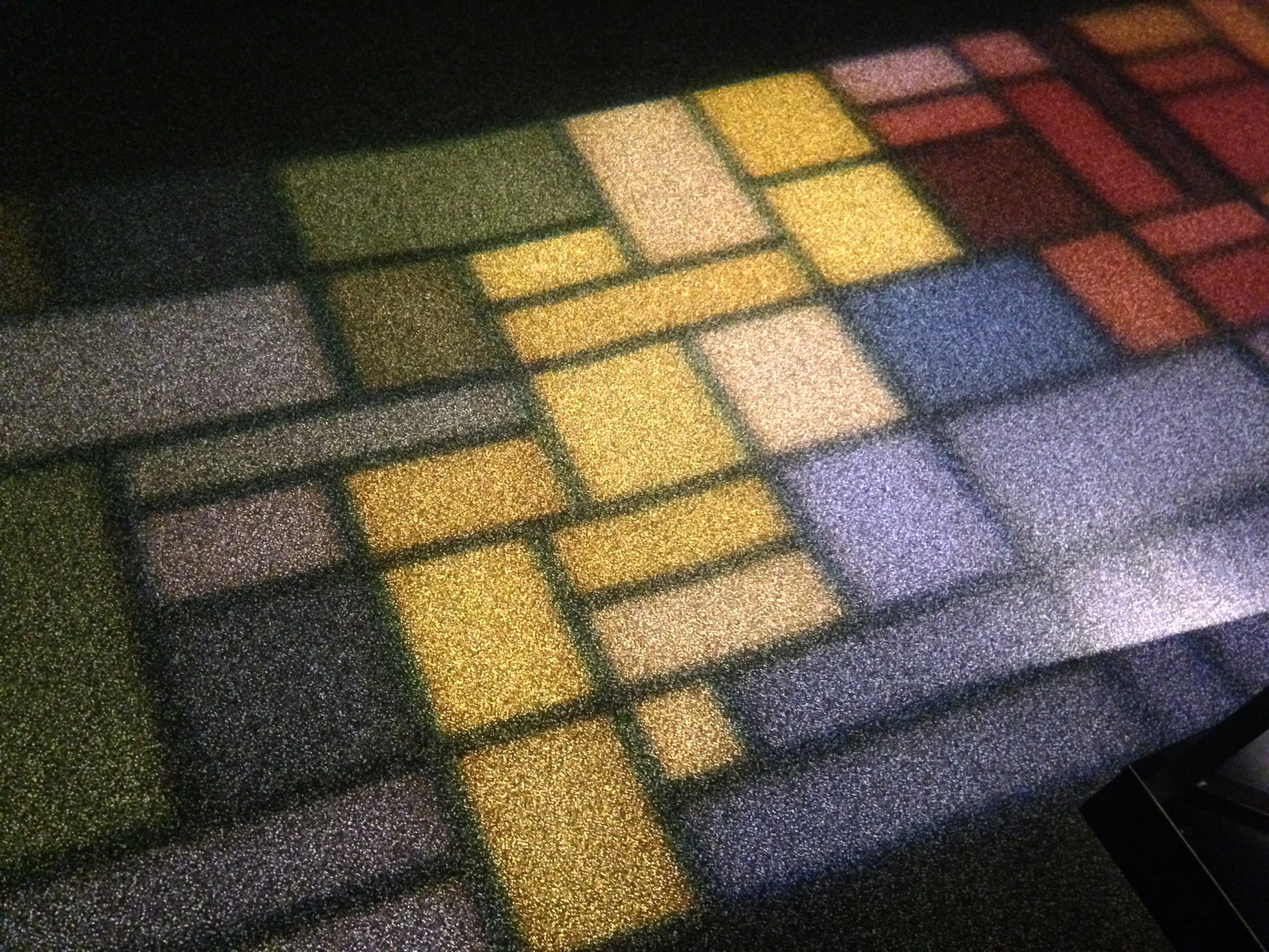
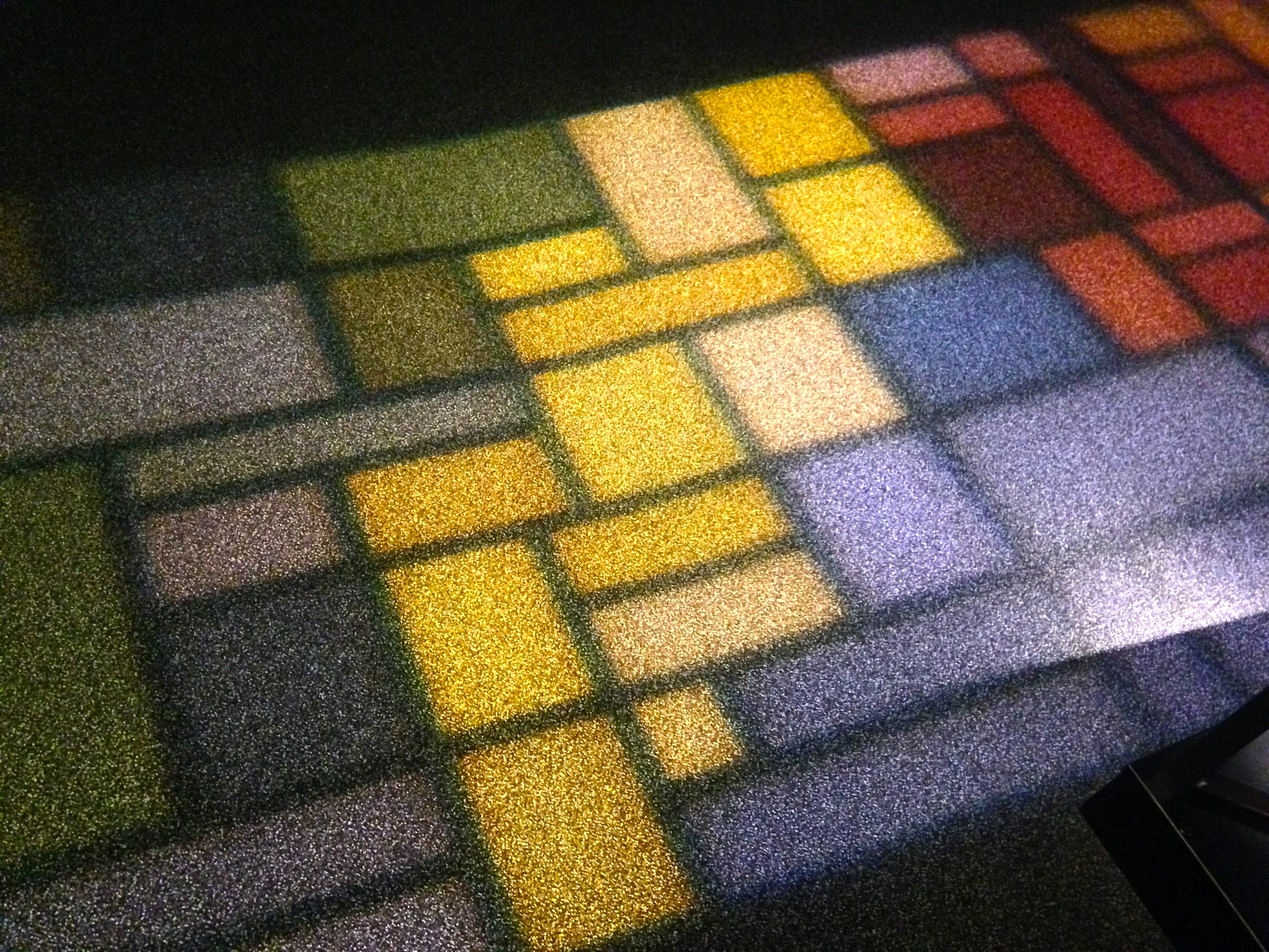
brighten web audio sync post

Changed region(s): [[0.2812, 0.0625, 0.75, 1.0], [0.9688, 0.0312, 1.0, 0.0625], [0.875, 0.0312, 0.9062, 0.0625]]

diff --git a/src/content/blog/2020/how-to-sync-web-audio-api-and-web-midi/index.md b/src/content/blog/2020/how-to-sync-web-audio-api-and-web-midi/index.md
@@ -53,24 +53,25 @@ This second item is the tricky one - the AudioContext doesn't necessarily start 
 
 We can measure this difference by using the [high resolution time API](https://developer.mozilla.org/en-US/docs/Web/API/Window/performance), and comparing that to the current AudioContext time.
 
-<!-- wp:code -->
-<pre class="wp-block-code"><code>const perfNow = window.performance.now()
+```js
+const perfNow = window.performance.now()
 const audioNow = audioContext.currentTime;
-const audioContextOffsetSec = ( perfNow / 1000.0 ) - audioNow;</code></pre>
-<!-- /wp:code -->
+const audioContextOffsetSec = ( perfNow / 1000.0 ) - audioNow;
+```
 
 This tells us how *late* audio events are relative to MIDI or real time. (MIDI events are sent in close to real time.)
 
 So to sync we need to offset (delay) MIDI events by this latency:
 
-<!-- wp:code -->
-<pre class="wp-block-code"><code>const timestamp = ( startSeconds * 1000 );
+```js
+const timestamp = ( startSeconds * 1000 );
 const offset = ( audioContextOffsetSec * 1000 );
 midiOutPorts[0].send(
   [ 0x90 + 0, midiNote, 100 ],
   timestamp + offset
-);</code></pre>
-<!-- /wp:code -->
+);
+```
+
 
 *For a long time I had this backwards – I'd schedule my audio events earlier by audioContextOffsetSec, trying to account for the latency, but this breaks down when you are scheduling close to now. The AudioContext can only schedule so far in advance.*
 
